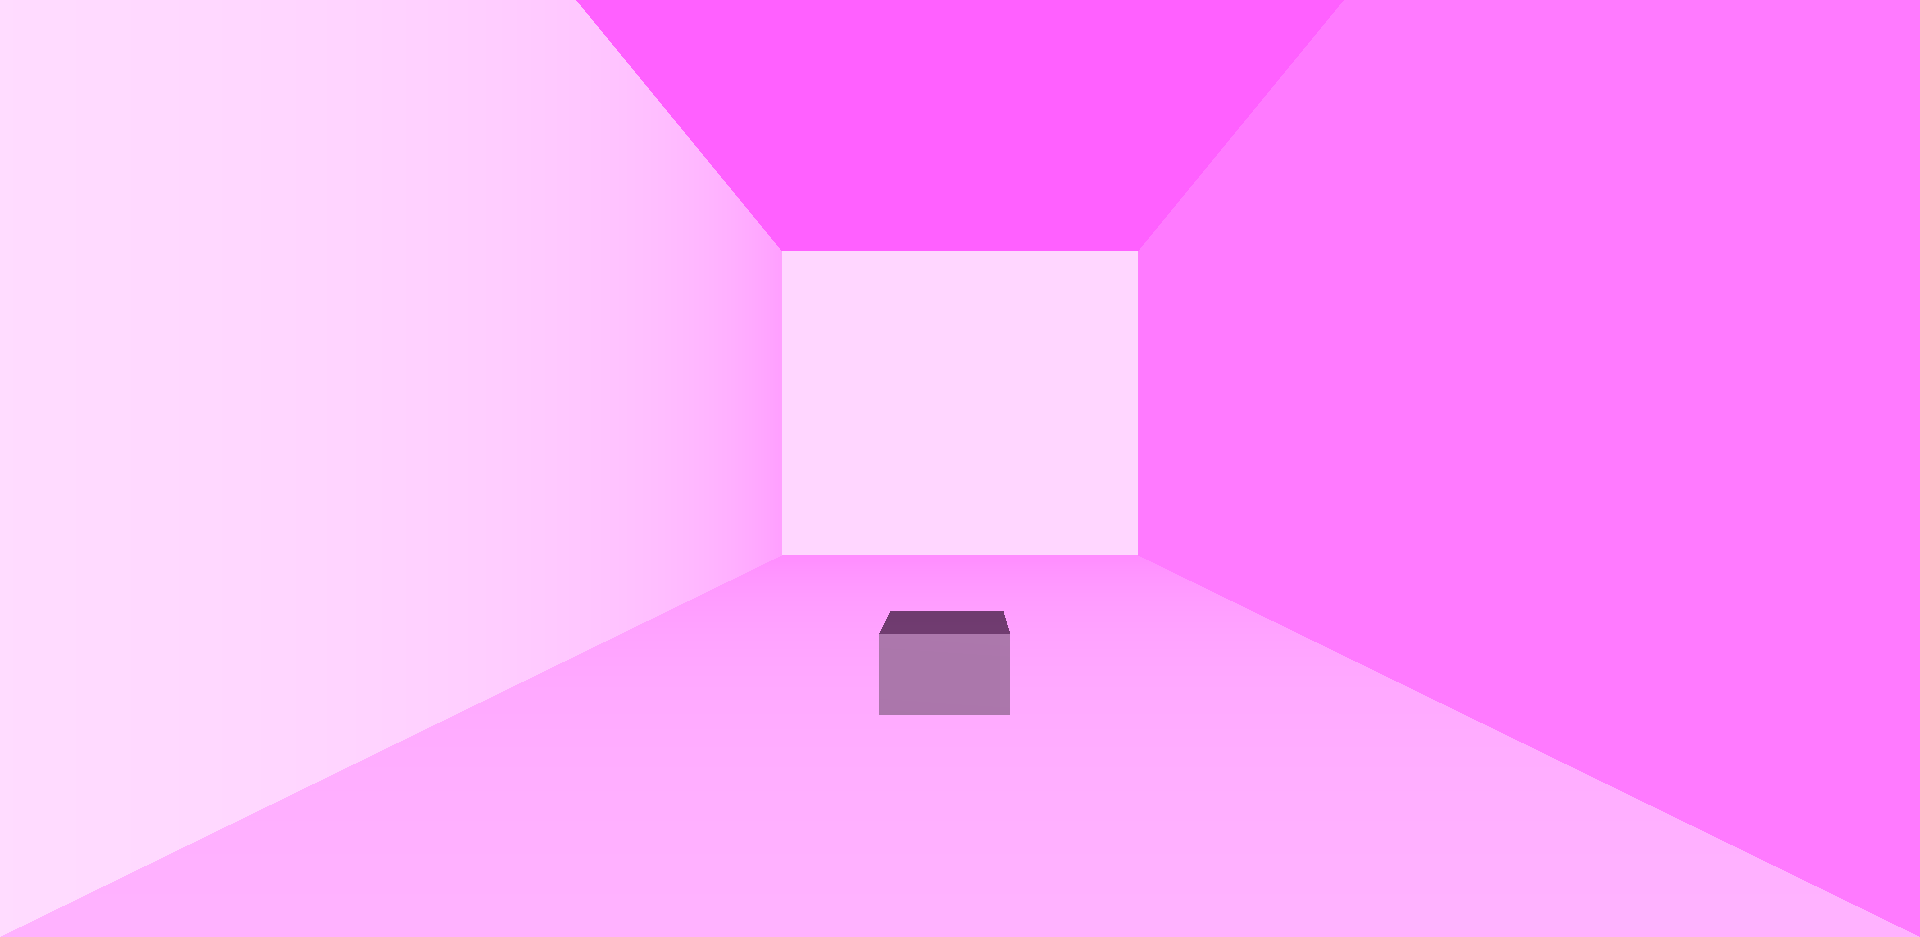
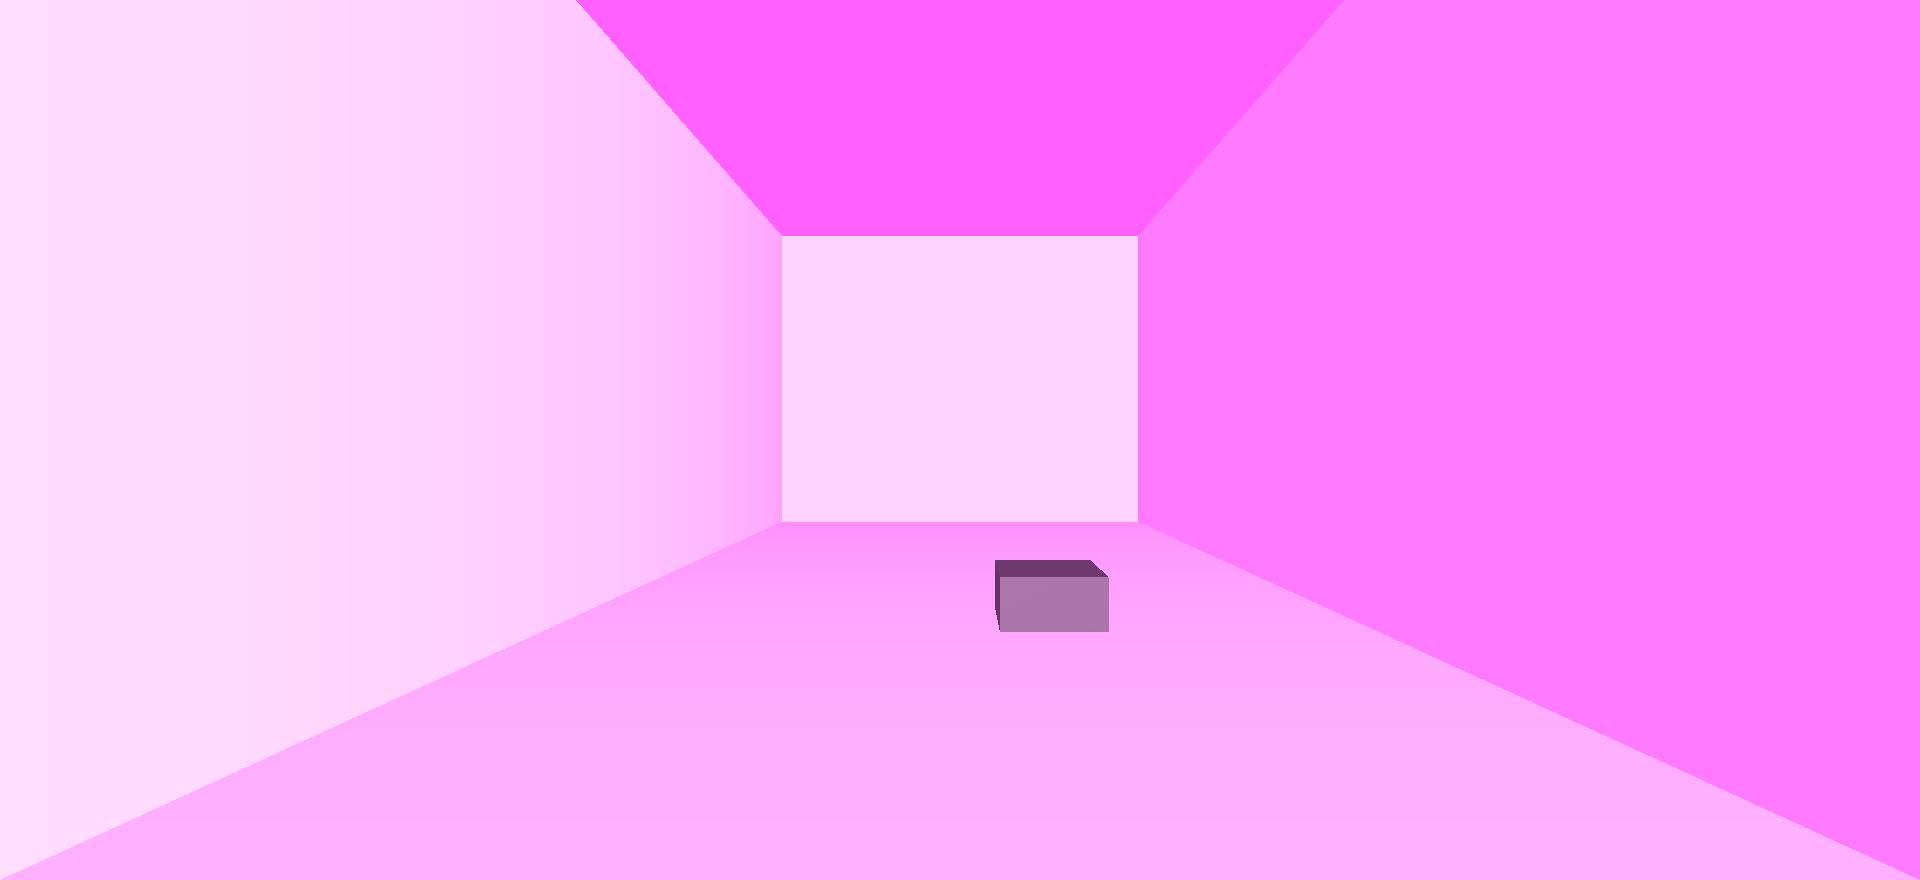
poc for perspective, with simulation

Changed region(s): [[0.4375, 0.6136, 0.5938, 0.767]]

diff --git a/src/simulator/simulator.js b/src/simulator/simulator.js
@@ -1,14 +1,19 @@
 let x;
 let y;
 let z;
+let m; 
+let cam;
+let zcam;
 
 function setup() {
     canvas = createCanvas(windowWidth, windowHeight, WEBGL);
     noStroke();
     x = random(-100, 100);
     y = windowHeight/5;
-    z = random(-400, 400);
-    
+    z = random(-400, 600);
+    m = true;
+    cam = createCamera()
+    zcam = cam.eyeZ;
 }
 
 function draw() {
@@ -34,12 +39,15 @@ function draw() {
     plane(windowHeight, windowWidth);
     pop();
 
-    push();
-    translate(0, -windowHeight/2, 0);
-    fill(255, 200, 255);
-    rotateX((90 * PI) / 180);
-    plane(windowHeight, windowWidth);
-    pop();
+    
+    if (m) {
+        push();
+        translate(0, -windowHeight/2, 0);
+        fill(255, 200, 255);
+        rotateX((90 * PI) / 180);
+        plane(windowHeight, windowWidth);
+        pop();
+    }
 
     push();
     translate(0, 0, -windowHeight);
@@ -48,6 +56,13 @@ function draw() {
     pop();
     
     drawBox(x, y, z, 100, 100);
+
+    // behind camera wall
+    push();
+    translate(0, 0, zcam+1);
+    fill(255, 200, 200);
+    plane(max(windowHeight, windowWidth), max(windowHeight, windowWidth));
+    pop();
 
     orbitControl(5);
 }
@@ -62,8 +77,16 @@ function drawBox(x, y, z, d, gcolor) {
 
 function windowResized() {
     resizeCanvas(windowWidth, windowHeight);
+    zcam = cam.eyeZ;
 }
 
 function mousePressed() {
-    saveCanvas(canvas,"room","png");
+    if (m) {
+        saveCanvas(canvas,"room","png");
+        camera(0, -windowWidth/1.2, 0, 0, 0, 0, 0, 1, 0);
+        m = false;
+    }
+    else {
+        saveCanvas(canvas,"roomtop","png");
+    }
 }

diff --git a/src/poc.py b/src/poc.py
@@ -1,0 +1,56 @@
+import cv2
+import numpy as np
+
+img = cv2.imread("simulator_imgs/room_1.png")
+h, w, *_ = img.shape
+
+top_img = cv2.imread("simulator_imgs/roomtop_1.png")
+th, tw, *_ = img.shape
+
+def showImg(img):
+    cv2.imshow("img", img)
+    cv2.waitKey(0)
+ 
+pts1 = np.float32([
+    [782, 522], [1138, 522], [0, h], [w, h]
+])
+
+pts2 = np.float32([
+    [0, 0], [w, 0], [0, h], [w, h]
+]) 
+
+M = cv2.getPerspectiveTransform(pts1, pts2)
+
+dst = cv2.warpPerspective(img, M, (w, h))
+
+for pt in pts1:
+    x, y = pt
+    cv2.circle(img, (x, y), 20, (0, 0, 255), 3)
+
+#showImg(img)
+#showImg()
+#showImg(dst)
+
+pts1 = np.float32([
+    [795, 62], [1125, 62], [795, 767], [1125, 767]
+])
+
+pts2 = np.float32([
+    [0, 0], [w, 0], [0, h], [w, h]
+]) 
+
+M = cv2.getPerspectiveTransform(pts1, pts2)
+
+dst2 = cv2.warpPerspective(top_img, M, (w, h))
+
+for pt in pts1:
+    x, y = pt
+    cv2.circle(top_img, (x, y), 20, (0, 0, 255), 3)
+
+# 261, 56;
+
+new_truth = cv2.resize(dst2, (tw // (261 // 56), th), interpolation = cv2.INTER_AREA)
+new_perpe = cv2.resize(dst,  (w  // (261 // 56),  h), interpolation = cv2.INTER_AREA)
+
+showImg(new_truth)
+showImg(new_perpe)
